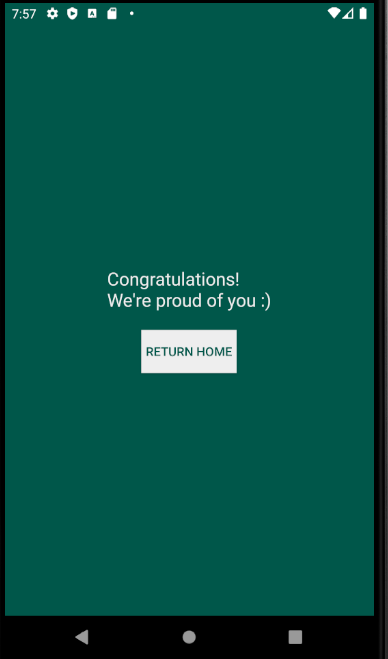
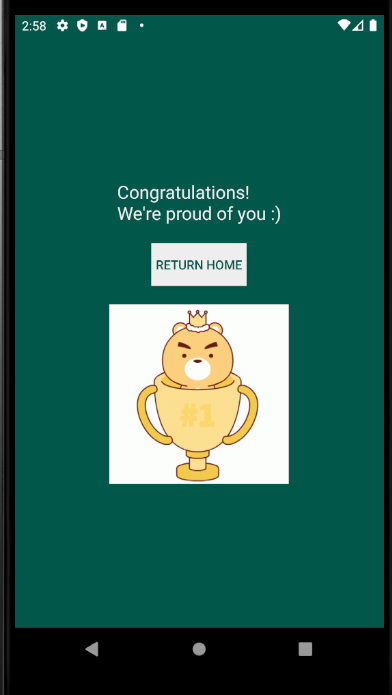
Update README.md and screenshots to match additions to UI in congratulations activity.

Changed region(s): [[0.0, 0.0, 1.0, 1.0], [0.2784, 0.2731, 0.7423, 0.698]]

diff --git a/app/src/main/java/com/example/memorymatchinggame/CongratulationsActivity.kt b/app/src/main/java/com/example/memorymatchinggame/CongratulationsActivity.kt
@@ -2,11 +2,15 @@ package com.example.memorymatchinggame
 
 import android.os.Bundle
 import android.widget.Button
+import android.widget.ImageView
 import androidx.appcompat.app.AppCompatActivity
+import com.bumptech.glide.Glide
 
 class CongratulationsActivity : AppCompatActivity() {
 
     lateinit var returnBtn: Button
+    lateinit var trophyImage: ImageView
+    val trophyImageSrc: String = "https://media1.tenor.com/images/1ea9b6b30492252e08c7cbd44d069fb1/tenor.gif?itemid=16466287"
 
     override fun onCreate(savedInstanceState: Bundle?) {
         super.onCreate(savedInstanceState)
@@ -15,5 +19,10 @@ class CongratulationsActivity : AppCompatActivity() {
         supportActionBar?.hide()
         returnBtn = findViewById(R.id.returnToHomeBtn)
         returnBtn.setOnClickListener{v -> this.finish()}
+
+        trophyImage = findViewById(R.id.trophy)
+        Glide.with(this)
+            .load(trophyImageSrc)
+            .into(trophyImage)
     }
 }

diff --git a/README.md b/README.md
@@ -1,11 +1,18 @@
 # Android Mobile Challenge
 
-## About the project
+## The Challenge
 The challenge was to design a memory game that retrieved images from an external JSON endpoint and loaded them into a playable format. 10 matches to win in the easy mode (2 cards per match) and 6 matches to win in the hard mode (3 cards per match).
 
-See https://docs.google.com/document/d/1M2VsBSZr8696HU6mO3MWveSB7p3Do9lOkMrjT5nKiEg/edit for details!
+See [here](https://docs.google.com/document/d/1M2VsBSZr8696HU6mO3MWveSB7p3Do9lOkMrjT5nKiEg/edit) for more details!
 
-## Some sample images
+## About The App
++ Architecture: I followed the MVVM (Model-View-ViewModel) pattern, which is recommended by Android for its clean structure and decoupling of logic/processing and UI layers. However, this is not a strict MVVM app, as this project's scale doesn't demand it.
++ Language: Kotlin was used! I have more experience in Java but wanted to develop my proficiency in Kotlin and learn how to leverage its unique features (null safety, lambdas, data classes, etc.). As a bonus, I know that top tech companies such as Shopify rely on Kotlin and wanted to demonstrate this skill.
++ Image Loading Libaries: The most commonly used libraries are Picasso and Glide. Since I don't resize the images, the way that they handle cache (real size vs. imageView size) wasn't relevant. I ended up going with Glide since it was smaller, could support GIFs, had more recent support, and is recommended by Android.
++ JSON Serialization: Moshi was used since it adapts better to Kotlin than Gson and is faster.
++ Have any other questions? If you want more information on choosing libraries, the challenges I encountered, or how I designed the app, let me know! I'm available through [email](mailto:e2wai@uwaterloo.ca) and happy to help.
+
+## Some Screenshots
 + No matches found yet:
 
 ![No matches found yet image](https://github.com/e-wai/MemoryMatchingGame/blob/master/no_matches_yet.PNG)
@@ -18,7 +25,12 @@ See https://docs.google.com/document/d/1M2VsBSZr8696HU6mO3MWveSB7p3Do9lOkMrjT5nK
 
 ![Congratulatory message image](https://github.com/e-wai/MemoryMatchingGame/blob/master/celebration_screen.PNG)
 
-## Third party libraries used
+## Third Party Libraries used
 + Retrofit for API calls
++ Moshi for deserializing JSON from API call
 + Glide for image loading from URLs
 + Mockito and Robolectric for testing
+
+I also used AndroidX components such as ViewModel, LiveData, and DataBinding to use updated practices for MVVM and to experiment with the latest Android libraries/technologies.
+
+GIF from tenor.com, card images from Shopify.
